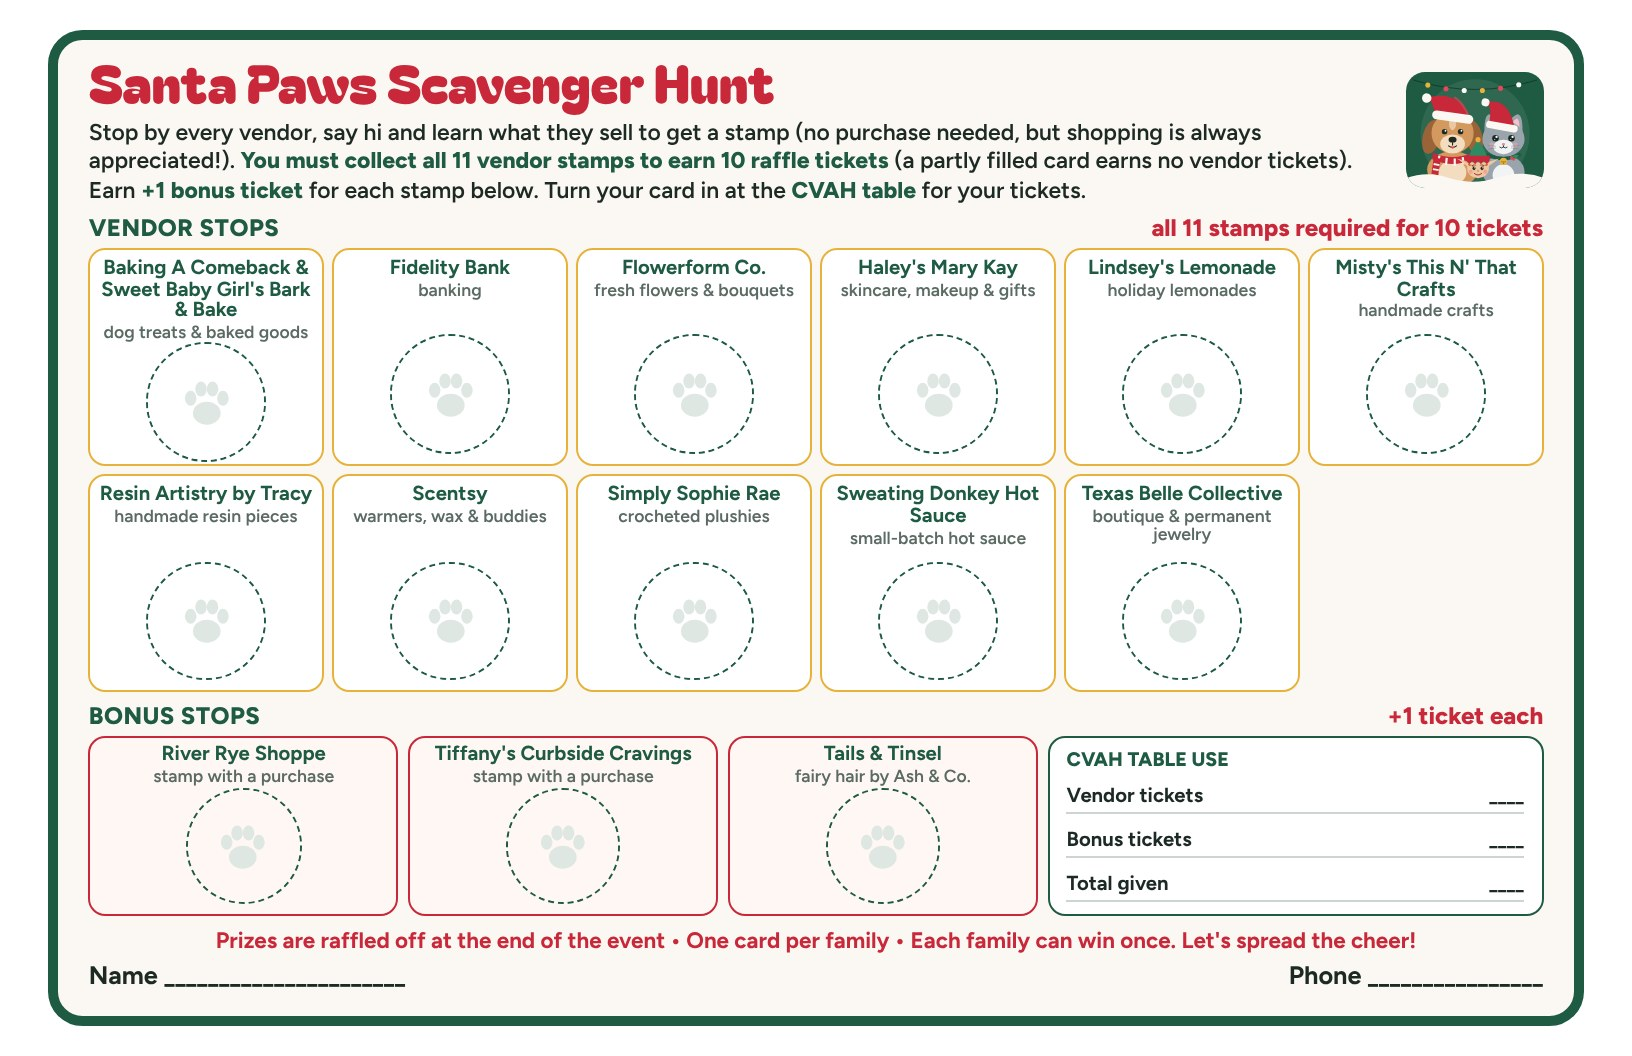
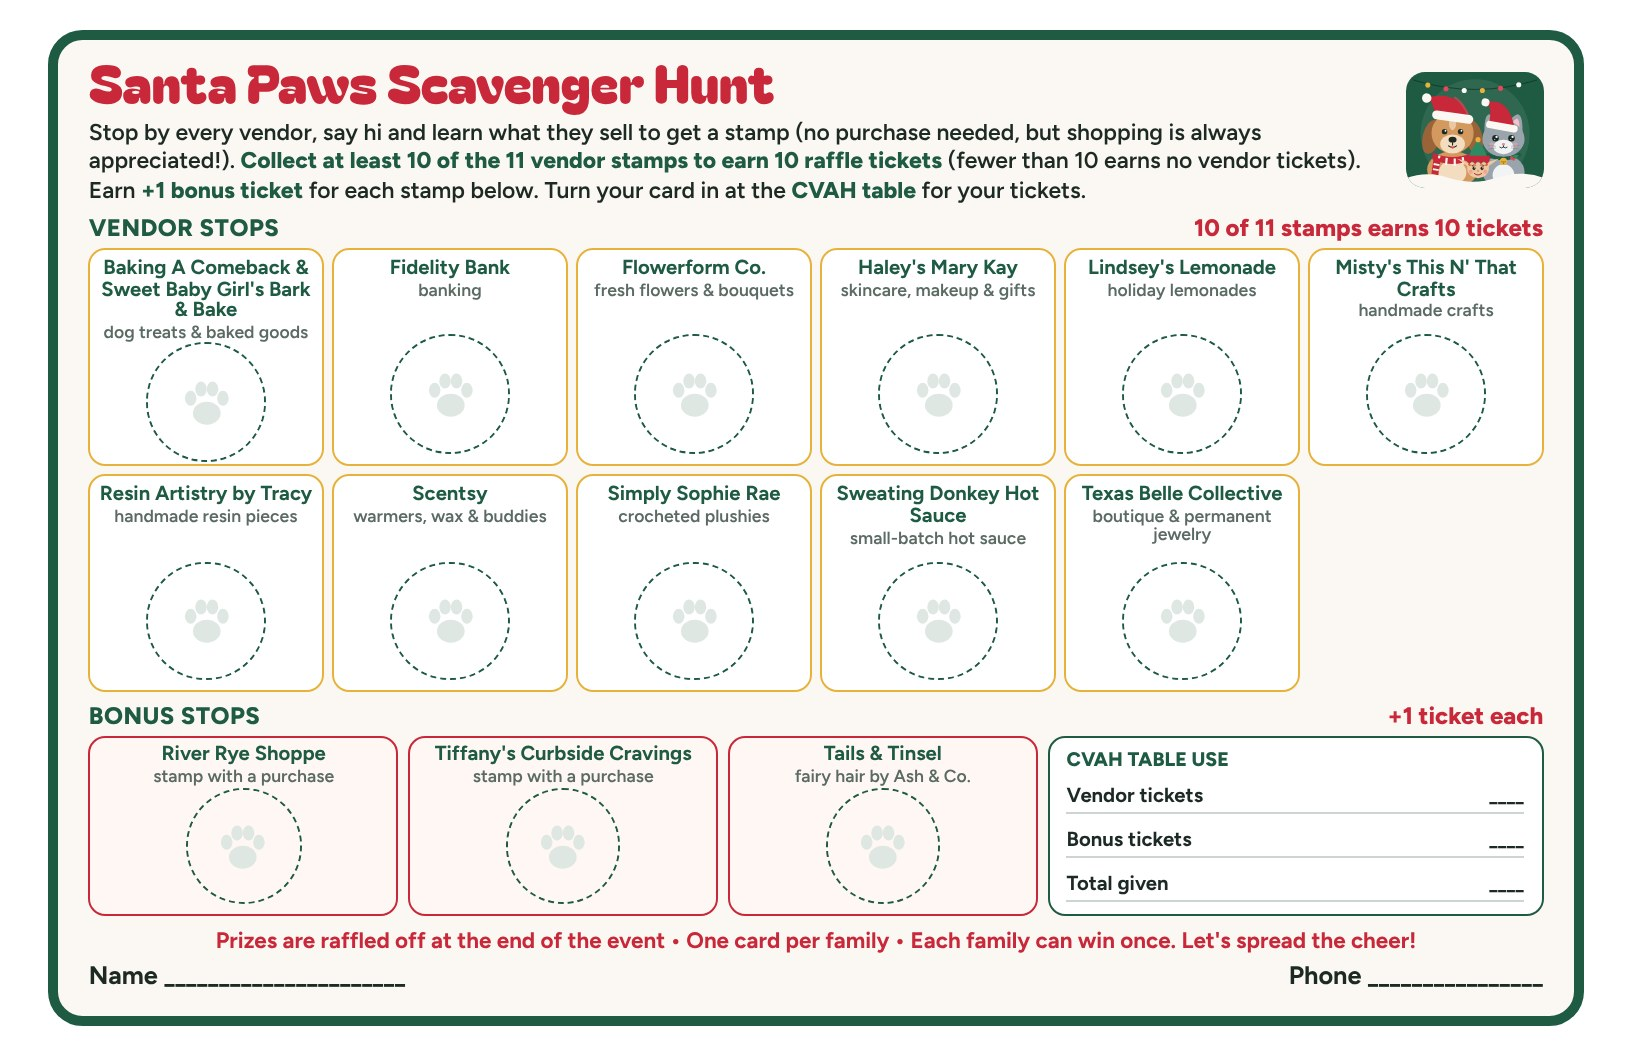
Scavenger hunt: 10 of 11 vendor stamps earns 10 tickets
Claude-Session: https://claude.ai/code/session_01JFpBQ97b8vmH3LwQqBFzYw

Changed region(s): [[0.1562, 0.125, 0.8438, 0.1562], [0.7188, 0.1875, 0.875, 0.25]]

diff --git a/hunt.html b/hunt.html
@@ -429,7 +429,7 @@ footer p { opacity: .85; font-size: .95rem; }
       </div>
       <div class="hunt-steps">
         <div class="hunt-step"><span class="num">1</span><h3>Visit every vendor</h3><p>Stop by each vendor, say hi and learn what they sell to get a stamp. No purchase needed, but shopping local is always appreciated!</p></div>
-        <div class="hunt-step"><span class="num">2</span><h3>Fill the vendor stamps</h3><p>Collect every vendor stamp to earn 10 raffle tickets. A partly filled card doesn't earn vendor tickets.</p></div>
+        <div class="hunt-step"><span class="num">2</span><h3>Fill the vendor stamps</h3><p>Collect at least 10 of the 11 vendor stamps to earn 10 raffle tickets. Fewer than 10 stamps doesn't earn vendor tickets.</p></div>
         <div class="hunt-step"><span class="num">3</span><h3>Grab bonus stamps</h3><p>Earn 1 extra ticket each at River Rye Shoppe and Tiffany's Curbside Cravings (with a purchase), and at Tails &amp; Tinsel with fairy hair by Ash &amp; Co.</p></div>
         <div class="hunt-step"><span class="num">4</span><h3>Turn it in</h3><p>Bring your card to the CVAH table to get your raffle tickets. Winners are drawn at the end of the event.</p></div>
       </div>
